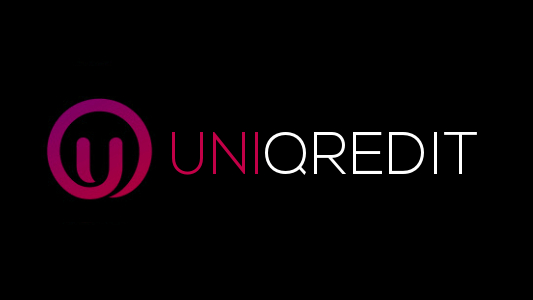
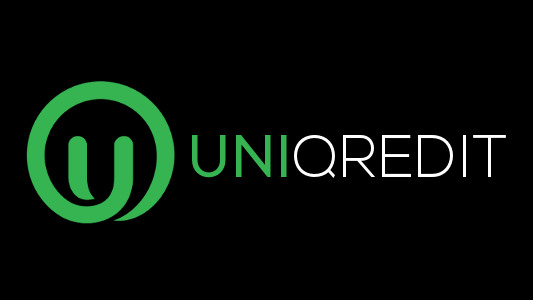
pink/purple --> green
see above

Changed region(s): [[0.03, 0.27, 0.9606, 0.75]]

diff --git a/css/styles.css b/css/styles.css
@@ -41,8 +41,8 @@ h5 {
 
 .btn:hover, .btn:focus {
   color: #fff;
-  border-color: #FF5274;
-  background-color: #FF5274; }
+  border-color: #36b452;
+  background-color: #36b452; }
 
 .btn-white {
   font-size: 13px;
@@ -52,21 +52,21 @@ h5 {
   border-color: #fff; }
 
 .btn-white:hover, .btn-white:focus {
-  color: #FF5274;
-  border-color: #FF5274; }
+  color: #36b452;
+  border-color: #36b452; }
 
 .btn-fill {
   color: #fff;
-  border: solid 2px #FF5274;
+  border: solid 2px #36b452;
   border-radius: 40px;
   display: inline-block;
   text-transform: uppercase;
-  background-color: #FF5274; }
+  background-color: #36b452; }
 
 .btn-fill:hover, .btn-fill:focus {
   color: #fff;
-  background-color: #D7405D;
-  border-color: #D7405D; }
+  background-color: #2d9a44;
+  border-color: #2d9a44; }
 
 .btn-small {
   padding: 8px 40px; }
@@ -98,7 +98,7 @@ Global Styles
   margin: 0; }
 
 a {
-  color: #FF5274;
+  color: #36b452;
   -webkit-transition-timing-function: ease;
   transition-timing-function: ease;
   -webkit-transition-duration: 200ms;
@@ -107,7 +107,7 @@ a {
   transition-property: color, border-color, background-color; }
 
 a:hover, a:focus {
-  color: #D7405D;
+  color: #2d9a44;
   text-decoration: none; }
 
 body {
@@ -402,7 +402,7 @@ header {
         color: #fff;
         padding-right: 25px; }
         header ul.primary-nav li a:hover {
-          color: #FF5274; }
+          color: #36b452; }
       header ul.primary-nav li:last-child a {
         padding-right: 0px; }
   header ul.member-actions li {
@@ -410,7 +410,7 @@ header {
     header ul.member-actions li a {
       color: #fff; }
       header ul.member-actions li a:hover {
-        color: #FF5274; }
+        color: #36b452; }
   header .header-nav {
     display: inline-block; }
   header .member-actions {
@@ -425,7 +425,7 @@ header {
     header ul.price-actions li a {
       color: #fff; }
       header ul.price-actions li a:hover {
-        color: #FF5274; }
+        color: #36b452; }
   header .header-nav {
     display: inline-block; }
   header .price-actions {
@@ -450,7 +450,7 @@ Intro
 ========================================================================== */
 .intro span.icon {
   font-size: 40px;
-  color: #FF5274;
+  color: #36b452;
   font-weight: bold; }
 
 .intro-icon {
@@ -476,7 +476,7 @@ Features-stack
     margin: 0 0 20px 0; }
   .features span.icon {
     font-size: 35px;
-    color: #FF5274;
+    color: #36b452;
     font-weight: bold; }
   .features .feature-icon {
     display: inline-block;
@@ -693,7 +693,7 @@ Sign up form
   text-align: left;
   position: relative; }
   .sign-up .signup-form .form-input-group i {
-    color: #FF5274;
+    color: #36b452;
     font-size: 14px; }
   .sign-up .signup-form .form-input-group i:after {
     content: "";
@@ -775,7 +775,7 @@ footer {
   footer a {
     color: #fff; }
   footer a:hover {
-    color: #FF5274; }
+    color: #36b452; }
   footer ul.footer-group {
     border-top: solid 1px #4E566C;
     padding-top: 25px;
@@ -786,7 +786,7 @@ footer {
     font-size: 13px;
     text-transform: uppercase; }
   footer ul.footer-group li a:hover {
-    color: #FF5274; }
+    color: #36b452; }
   footer ul.footer-group li {
     margin-right: 30px; }
   footer ul.footer-group li:last-child {
